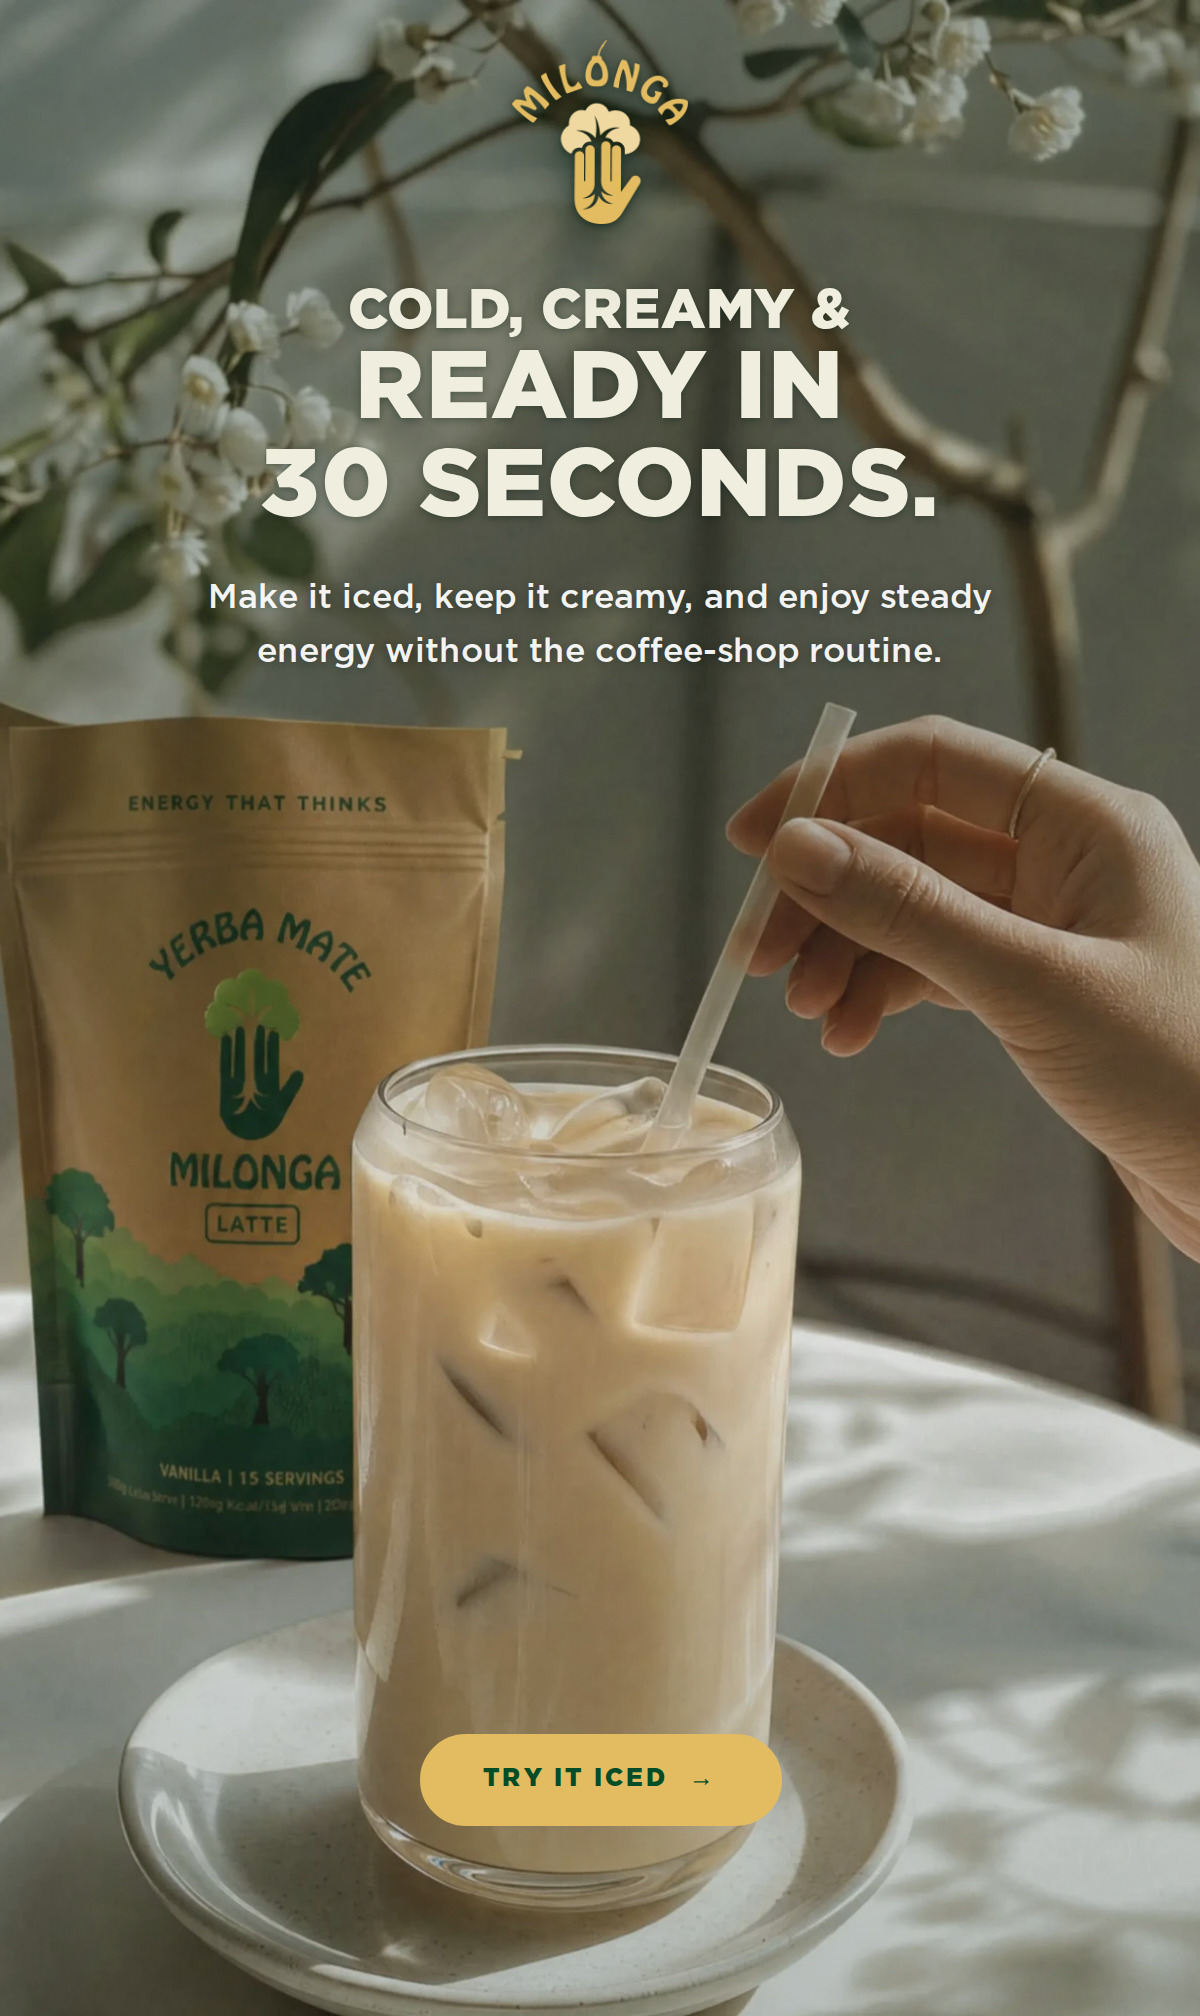
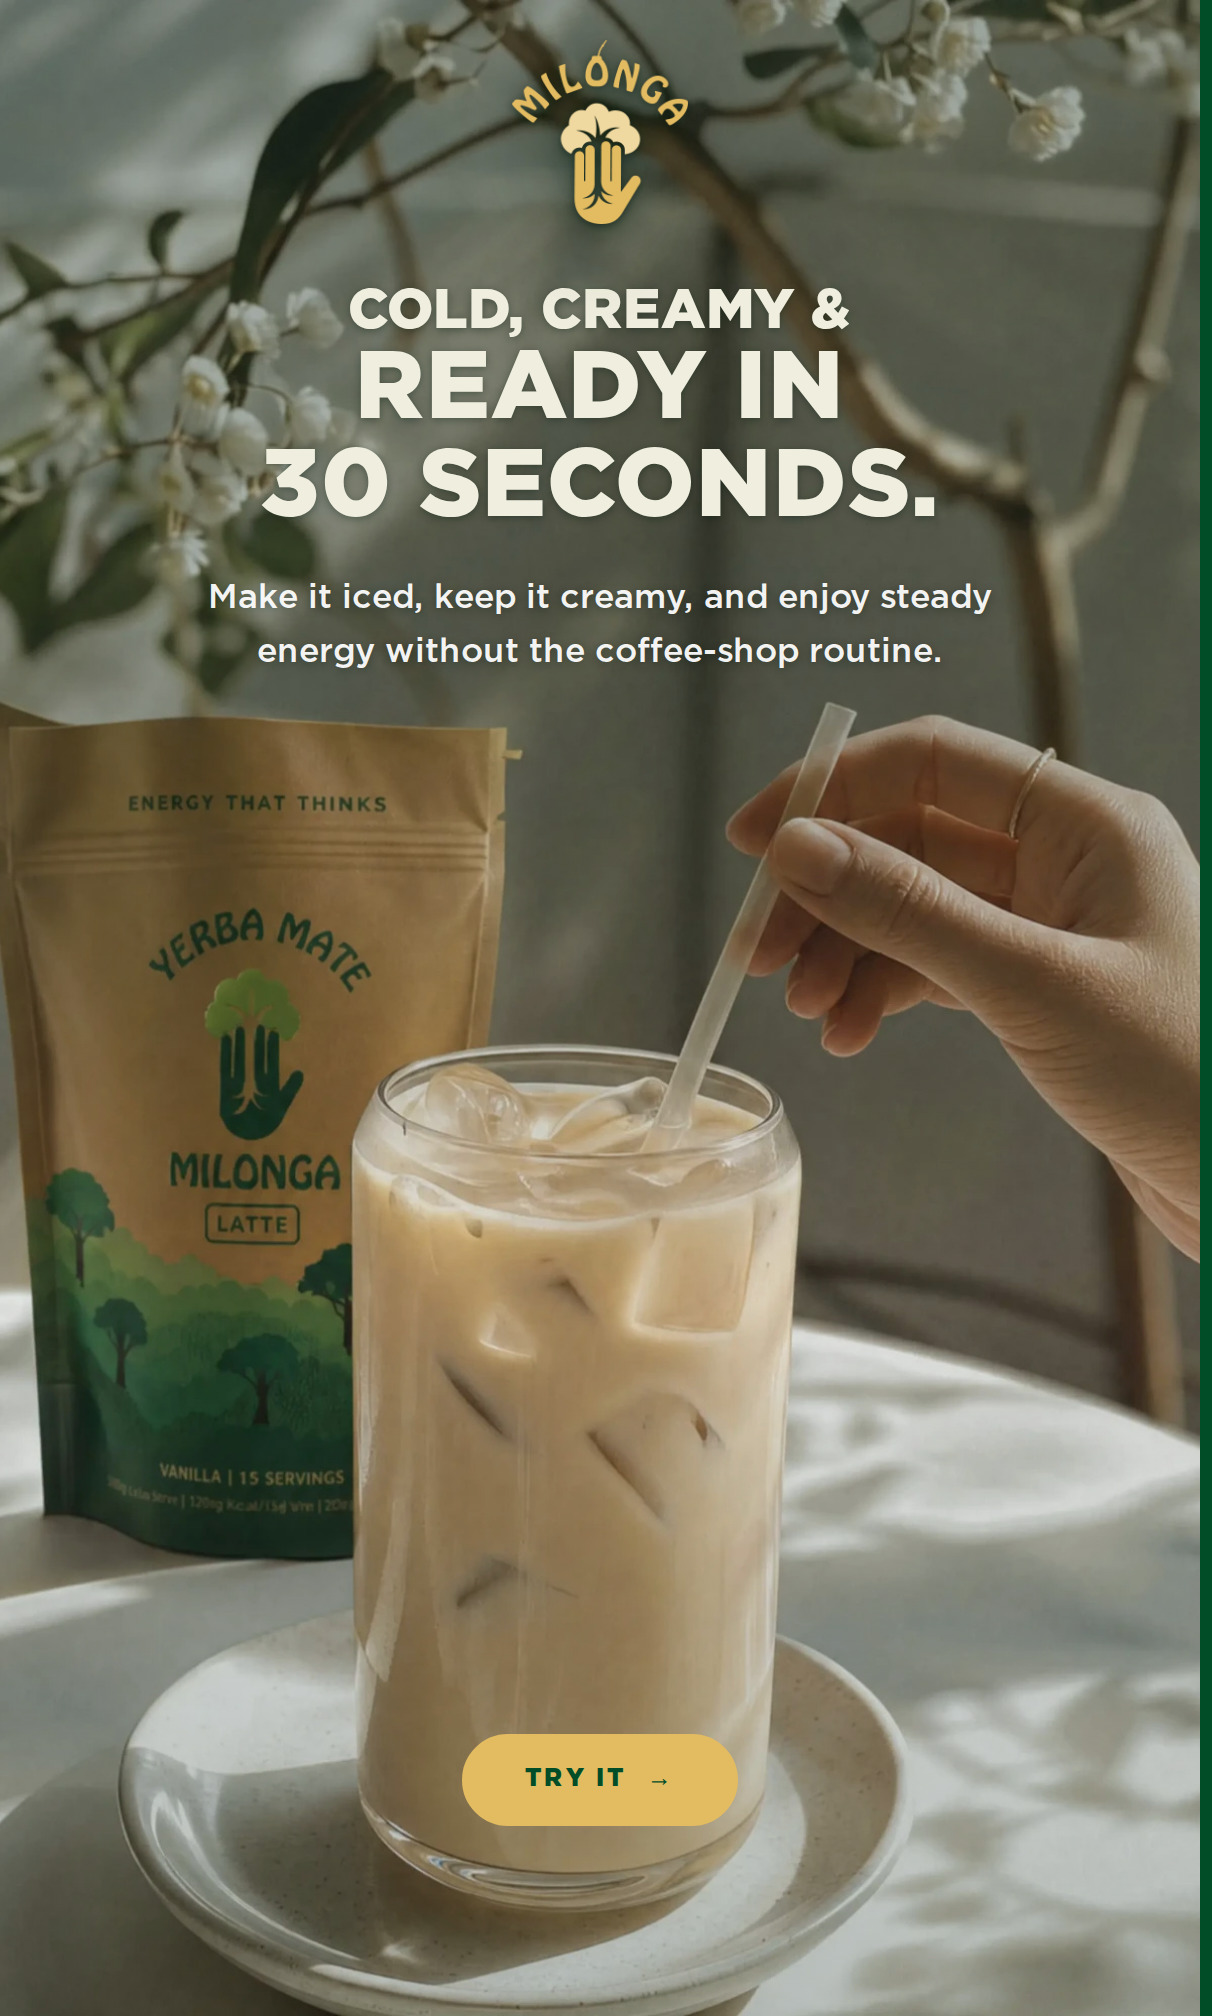
email: how-to-make-it, the second section becomes the recipe
Section one's button is now "Try it". Section two is rebuilt on textured
beige: "Golden Vanilla Mate", the line under it, the ingredients beside the
jar, the four-step method, and the button. The scoop shot, the hot/iced marks
and the old three-step sequence are gone with the copy they served.

ON BEIGE THE INK IS ONE DARK GREEN, which is why the bullets are the GREEN
Milonga mark rather than the gold one the photographic slides use — gold
measures about 1.5:1 on this ground, so here it is a fill and never type.

THE LIST WIDTH IS MEASURED AND THE PICTURE GAVE WAY TO IT. The longest
ingredient, "Optional: cinnamon stick for garnish", is 36 characters; at 16 —
the body floor — this face runs about 7.6 units a character, so the line
needs 273 plus the 21 the bullet and its gap take. At a 300-unit column two
ingredients wrapped and at 310 one still did. The column is 336 and the jar
came down 300 -> 228 to leave it, because a list of eight that wraps looks
like a mistake and a picture 70 units narrower does not.

The jar still bleeds off the right edge, which is what keeps a cutout reading
as a photograph rather than as a sticker.

Claude-Session: https://claude.ai/code/session_01NhEtXPnfeCJfN73SqBkUZ5

diff --git a/email-ds/emails/how-to-make-it.jsx b/email-ds/emails/how-to-make-it.jsx
@@ -12,7 +12,7 @@ const M = window.MilongaEmailDS;
 const h = React.createElement;
 
 function HowToMakeIt() {
-  return h(M.EmailShell, { bg: 'forest' },
+  return h(M.EmailShell, { bg: 'beige' },
 
     // ── 1 · THE OPENER, ON THE PHOTOGRAPH ─────────────────────────────────
     // Wordmark centred at the head, the headline and its line under it, the
@@ -36,7 +36,7 @@ function HowToMakeIt() {
     // units of width off each side, which this composition has to give.
     h(M.T9Story, {
       src: '../public/product/latte-iced-table.jpg',
-      alt: 'Cold, creamy and ready in 30 seconds. A tall glass of iced Milonga Mate Latte on a table in morning light, a hand stirring it with a straw, the vanilla Mate Latte pouch behind it and a branch of white blossom above. Try it iced.',
+      alt: 'Cold, creamy and ready in 30 seconds. A tall glass of iced Milonga Mate Latte on a table in morning light, a hand stirring it with a straw, the vanilla Mate Latte pouch behind it and a branch of white blossom above. Try it.',
       logo: true,
       logoTone: 'gold',
       logoHeight: 92,
@@ -54,7 +54,7 @@ function HowToMakeIt() {
       line1Color: '#F0EFDF',
       line2Color: '#F0EFDF',
       paras: ['Make it iced, keep it creamy, and enjoy steady energy without the coffee-shop routine.'],
-      cta: { label: 'Try it iced', href: '#shop', arrow: true },
+      cta: { label: 'Try it', href: '#shop', arrow: true },
       // Pinned low, the way the full-image opener is meant to work: the mark
       // and the words are one thing to read at the head, the button is the
       // one thing to do at the foot, and the photograph fills the gap
@@ -78,70 +78,96 @@ function HowToMakeIt() {
       halo: 'soft',
     }),
 
-    // ── 2 · THE PROCESS ───────────────────────────────────────────────────
-    h(M.Section, { bg: 'forest', pad: 'lg', align: 'center' },
+    // ── 2 · THE RECIPE ────────────────────────────────────────────────────
+    // Beige, textured, and it carries the whole second half: the drink's
+    // name, what goes in it, and how to make it.
+    //
+    // ON BEIGE THE INK IS ONE DARK GREEN. Gold measures about 1.5:1 here, so
+    // it is a fill and never type — which is why the bullets are the GREEN
+    // mark rather than the gold one the photographic slides use.
+    h('div', { style: { ...M.bgStyle('beige', M.bgFill.beige, true), padding: '56px 30px 60px' } },
 
-      h('div', { style: { fontFamily: 'Gotham, Montserrat, sans-serif', fontWeight: 900,
-        fontSize: 12, letterSpacing: '0.2em', textTransform: 'uppercase',
-        color: '#E3BC62', marginBottom: 14 } }, 'Ready in 30 seconds'),
-
-      h('div', { style: { fontFamily: 'Gotham, Montserrat, sans-serif', fontWeight: 900,
-        fontSize: 44, letterSpacing: '0.01em', textTransform: 'uppercase',
-        lineHeight: 1.0, color: '#F0EFDF' } }, 'Scoop, whisk,'),
-      h('div', { style: { fontFamily: 'Gotham, Montserrat, sans-serif', fontWeight: 900,
-        fontSize: 44, letterSpacing: '0.01em', textTransform: 'uppercase',
-        lineHeight: 1.0, color: '#E3BC62' } }, 'enjoy.'),
-
-      h('div', { style: { height: 26 } }),
-      h('div', { style: { fontFamily: 'Gotham, Montserrat, sans-serif', fontWeight: 500,
-        fontSize: 17, lineHeight: 1.5, color: '#FFFFFF', maxWidth: 420, margin: '0 auto' } },
-        'Three steps between the pouch and the cup. That is the whole recipe.'),
-    ),
-
-    // The scoop shot sits between the headline and the steps because it IS
-    // step one — a picture of the instruction rather than an illustration
-    // beside it. Full bleed, so it reads as part of the section and not as a
-    // card dropped into it.
-    h('div', { style: { background: '#004D27', lineHeight: 0 } },
-      h('img', {
-        src: '../public/product/pouch-hand-pour-big.png',
-        alt: 'A measuring scoop of Milonga Mate Latte powder being poured into a ribbed glass, beside the vanilla Mate Latte pouch.',
-        style: { width: '100%', height: 'auto', display: 'block', border: 0 },
-      }),
-    ),
-
-    h(M.Section, { bg: 'forest', pad: 'md', align: 'center' },
-
-      // Numerals rather than icon discs. The numbers ARE the content here —
-      // an ordered process is the one place where a step's position matters
-      // as much as its name, and a row of discs flattens that into a menu.
-      //
-      // Set LEFT inside a centred section. Steps are read in order and each
-      // one starts at its numeral; centring them ragged both edges of every
-      // row and the sequence stopped looking like a sequence.
-      h('div', { style: { textAlign: 'left' } },
-      h(M.Steps, {
-        bg: 'forest',
-        variant: 'numerals',
-        items: [
-          { title: 'Scoop', text: 'One scoop of Mate Latte into your cup.' },
-          { title: 'Whisk', text: 'Add your milk or water and froth it smooth.' },
-          { title: 'Enjoy', text: 'Hot in a mug, or poured straight over ice.' },
-        ],
-      }),
+      h('div', { style: { textAlign: 'center' } },
+        h('div', { style: { fontFamily: 'Gotham, Montserrat, sans-serif', fontWeight: 900,
+          fontSize: 36, letterSpacing: '0.01em', textTransform: 'uppercase',
+          lineHeight: 1.02, color: '#004D27' } }, 'Golden Vanilla Mate'),
+        h('div', { style: { fontFamily: 'Gotham, Montserrat, sans-serif', fontWeight: 500,
+          fontSize: 17, lineHeight: 1.5, color: '#1A1A1A', maxWidth: 440,
+          margin: '20px auto 0' } },
+          'Creamy vanilla, a touch of honey, and a refreshing twist on your daily Mate Latte.'),
       ),
 
-      h('div', { style: { height: 10 } }),
-      h(M.Divider, { bg: 'forest' }),
-      h('div', { style: { height: 26 } }),
+      // THE INGREDIENTS ROW. The list is fixed at 300 units and the picture
+      // takes what is left plus 30 more, running off the right edge — the
+      // same bleed the gourd and the pouch use elsewhere. A cutout with air
+      // on all four sides is a sticker; the same object crossing the edge is
+      // a photograph.
+      //
+      // 336 is measured, not chosen, and the picture was sized to leave it.
+      // The longest line — "Optional: cinnamon stick for garnish" — is 36
+      // characters, and at 16, the body floor, this face runs about 7.6 units
+      // a character: 273, plus the 21 the bullet and its gap take. At 300 two
+      // ingredients wrapped and at 310 one still did, which on a list of
+      // eight reads as a mistake rather than as a measure. The jar gives the
+      // width up rather than the list, because a list that wraps looks wrong
+      // and a picture 20 units narrower does not.
+      h('div', { style: { position: 'relative', marginTop: 40, minHeight: 250 } },
+        h('div', { style: { width: 336 } },
+          h('div', { style: { fontFamily: 'Gotham, Montserrat, sans-serif', fontWeight: 900,
+            fontSize: 13, letterSpacing: '0.2em', textTransform: 'uppercase',
+            color: '#004D27', marginBottom: 16 } }, 'What you’ll need'),
+          [
+            '2.5 tbsp Milonga Vanilla Mate Latte',
+            '2 oz hot water',
+            '6 oz oat or almond milk',
+            'Ice',
+            '1 tsp honey',
+            '¼ tsp vanilla extract',
+            'Pinch of cinnamon',
+            'Optional: cinnamon stick for garnish',
+          ].map((t, i) => h('div', { key: i,
+            style: { display: 'flex', alignItems: 'flex-start', gap: 8, marginBottom: 7 } },
+            h('img', { src: '../public/logo/mark-green.png', alt: '',
+              style: { height: 13, width: 'auto', flex: 'none', display: 'block', marginTop: 4 } }),
+            h('span', { style: { fontFamily: 'Gotham, Montserrat, sans-serif', fontWeight: 500,
+              fontSize: 16, lineHeight: 1.45, color: '#1A1A1A' } }, t),
+          )),
+        ),
+        h('img', { src: '../public/product/jar-in-hand.png',
+          alt: 'A hand holding a tall glass jar of iced Milonga Mate Latte, embossed with the Milonga hand.',
+          style: { position: 'absolute', right: -36, top: 8, width: 228,
+                   height: 'auto', display: 'block' } }),
+      ),
 
-      // The two serves, as the brand's own marks rather than as another line
-      // of copy. It is the one fact in this email that is a choice rather
-      // than an instruction, so it gets its own shape.
-      h(M.IconRow, { marks: ['hot', 'iced'], bg: 'forest', size: 56, labels: true }),
+      // THE METHOD. Four steps, numbered, set left — an ordered process is
+      // the one place where a step's position matters as much as its name.
+      h('div', { style: { marginTop: 46, textAlign: 'left' } },
+        h('div', { style: { fontFamily: 'Gotham, Montserrat, sans-serif', fontWeight: 900,
+          fontSize: 13, letterSpacing: '0.2em', textTransform: 'uppercase',
+          color: '#004D27', marginBottom: 22 } }, 'How to make it'),
+        [
+          ['01', 'Make the Mate', 'Add 2.5 tbsp Milonga Mate Latte to 2 oz hot water. Stir until completely dissolved.'],
+          ['02', 'Make it Creamy', 'Add 1 tsp honey, ¼ tsp vanilla, and a pinch of cinnamon. Stir well.'],
+          ['03', 'Pour Over Ice', 'Fill a glass with ice and pour in 6 oz of your favorite milk.'],
+          ['04', 'Finish', 'Pour the Mate Latte over the milk. Give it a gentle stir and top with a light dusting of cinnamon.'],
+        ].map(([n, title, text], i) => h('div', { key: i,
+          style: { display: 'flex', alignItems: 'flex-start', gap: 16, marginBottom: 22 } },
+          h('div', { style: { fontFamily: 'Gotham, Montserrat, sans-serif', fontWeight: 900,
+            fontSize: 30, lineHeight: 1, color: 'rgba(0,77,39,0.34)', flex: 'none',
+            width: 48 } }, n),
+          h('div', null,
+            h('div', { style: { fontFamily: 'Gotham, Montserrat, sans-serif', fontWeight: 900,
+              fontSize: 15, letterSpacing: '0.1em', textTransform: 'uppercase',
+              color: '#004D27', marginBottom: 7 } }, title),
+            h('div', { style: { fontFamily: 'Gotham, Montserrat, sans-serif', fontWeight: 500,
+              fontSize: 16, lineHeight: 1.45, color: '#1A1A1A' } }, text),
+          ),
+        )),
+      ),
 
-      h('div', { style: { height: 34 } }),
-      h(M.Button, { label: 'Shop the Mate Latte', href: '#shop', bg: 'forest' }),
+      h('div', { style: { marginTop: 14, textAlign: 'center' } },
+        h(M.Button, { label: 'Shop the Mate Latte', href: '#shop', bg: 'beige' }),
+      ),
     ),
   );
 }
